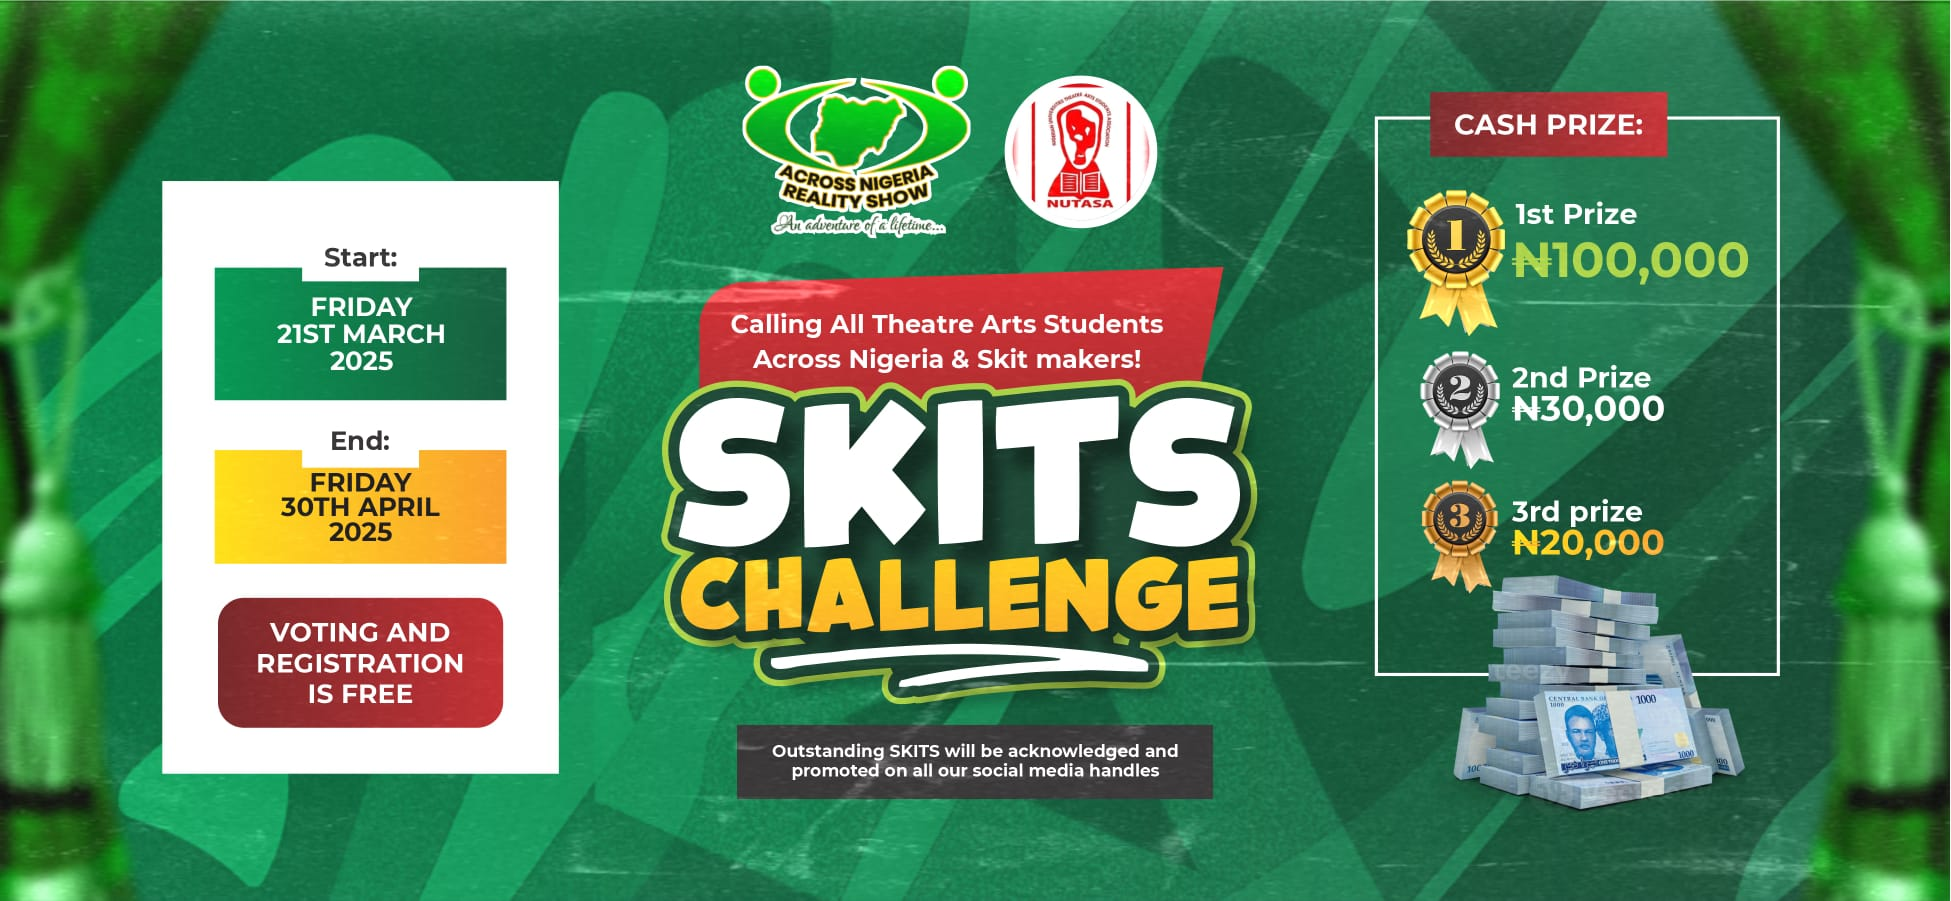
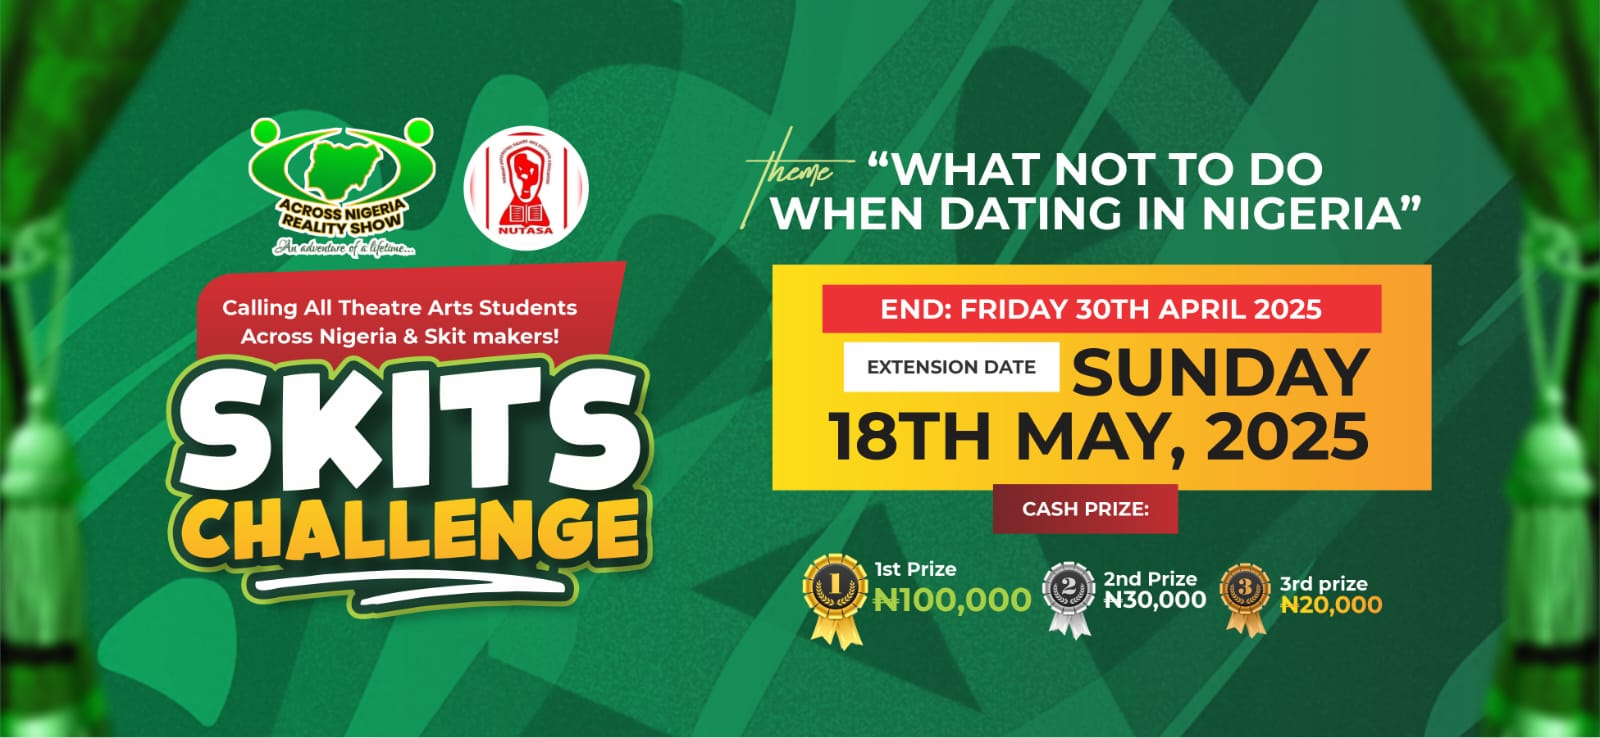
update to skit competition end date

diff --git a/src/pages/advert/components/StepTwo.js b/src/pages/advert/components/StepTwo.js
@@ -1,0 +1,85 @@
+import { useState } from "react";
+import DiamondIcon from "../../../../public/images/icon/DiamondIcon";
+import LineCrownIcon from "../../../../public/images/icon/LineCrownIcon";
+import LineTrophyIcon from "../../../../public/images/icon/LineTrophyIcon";
+import InfoIcon from "../../../../public/images/icon/InfoIcon";
+
+const StepTwo = ( { advertType, nextScreen, setBillingType, billingType, duration, setDuration, displayMode, setDisplayMode }) => {
+
+    const [ modalBottom, setModalBottom ] = useState('top-[-50px]');
+    const [ modalOpacity, setModalOpacity ] = useState('opacity-0');
+
+    const showModal = () => {
+        setModalBottom('top-[120px]');
+        setModalOpacity('opacity-100');
+        setTimeout(() => {
+            setModalBottom('top-[-50px]');
+            setModalOpacity('opacity-0');
+        }, 1500);
+    }
+
+    const selectBillingType = () => {
+        if ( billingType === 'daily') {
+            setBillingType('monthly');
+        } else {
+            setBillingType('daily');
+        }
+    }
+
+    const toNextStep = () => {
+        if ( selectedAdvert !== 0 ) {
+            nextScreen();
+        } else {
+            showModal();
+        }
+    }
+
+    const handleDisplayModeChange = (e) => {
+        setDisplayMode(e.target.value)
+    }
+    const handleDurationChange = (e) => {
+        const newValue = e.target.value;
+
+        // Allow only integers
+        if (newValue === '' || /^\d+$/.test(newValue)) {
+          setDuration(newValue);
+        }
+    }
+
+
+    return (
+        <div className="md:w-[70%] md:ml-[15%] mt-[20px] w-[100%] px-[3%] flex flex-col items-center text-center text-[18px]">
+            <div style={{lineHeight:'16px'}} className={`fixed ${modalBottom} ${modalOpacity} transition-all text-center ease-in-out duration-500 text-red-600 bg-white z-[2000] rounded-[20px] md:w-fit w-[80%] border-b-1 border-red-500 h-fit p-3`}>
+                <span>Please select Your preferred advert type</span>
+            </div> 
+            <span style={{lineHeight:'20px'}} className="md:text-[25px] text-[20px] font-bold">Customize Your advert</span>
+            <span style={{lineHeight:'20px'}} className="md:mt-[10px] mt-[4px] text-[15px]">Pick your preferred advert level type.</span>
+            <div className="md:w-[70%] w-[93%] h-[450px] bg-white rounded-[10px] p-3 mt-[20px]">
+                <div className="flex flex-row items-center justify-center gap-2">
+                    <span>Daily</span>
+                    <div onClick={selectBillingType} className={`w-[40px] hover:bg-gray-300 cursor-pointer h-[20px] flex flex-row ${billingType==='daily'?'justify-start':'justify-end'} transition-all duration-300 ease-in-out bg-tranparent border-[1px] border-black rounded-[25px]`}>
+                        <div className="h-[18px] w-[18px] hover:bg-green-800 transition-all ease-in-out duration-300 border-1 border-black rounded-full bg-green-500"></div>
+                    </div>
+                    <span>Monthly</span>
+                </div> 
+                <div className="flex flex-row text-[11px] items-center justify-center gap-2"><InfoIcon/> Select billing type</div>
+
+                <div className="mt-[25px] flex flex-col w-[100%] items-start text-left p-2">
+                    <div className="flex flex-col w-[100%] text-[14px]">
+                        <span className="font-bold">Number of { billingType === 'daily' ? 'Days':'Months' }</span>
+                        <input type="number" step={1} value={duration} min={1} max={365} className="h-[35px] px-3 w-[70%] outline-none ml-[10px] rounded-[5px] mt-[5px] border-1 border-gray-400 bg-gray-50" onChange={handleDurationChange} name="number"/>
+                    </div>
+
+                    <div className="flex flex-col w-[100%] mt-[14px] text-[15px]">
+                        <span className="font-bold">Choose Display Mode</span>
+                        <div className="flex flex-row items-center ml-[10px] cursor-pointer gap-2"><input onChange={handleDisplayModeChange} checked={displayMode==='static'} value={'static'} name="displayMode" className="h-[30px]" type="radio"/><span>Static</span></div>
+                        <div className="flex flex-row items-center ml-[10px] cursor-pointer gap-2"><input onChange={handleDisplayModeChange} checked={displayMode==='scroll'} value={'scroll'} name="displayMode" className="h-[30px]" type="radio"/><span>Scrolling</span></div>
+                    </div>
+                </div>
+            </div>
+            <button onClick={toNextStep} className="h-[45px] md:w-[300px] hover:bg-green-700 transition-all duration-300 ease-in-out w-[100%] bg-green-500 border-1 border-black rounded-[25px] mt-[20px] text-white">Continue</button>
+        </div>
+    )
+}
+
+export default StepTwo;

diff --git a/src/pages/api/updaters/updateUser.js b/src/pages/api/updaters/updateUser.js
@@ -1,25 +1,52 @@
-import User from "@/models/User"
-import db from "../../../../utils/db"
+import { Parser } from 'json2csv';
+import db from '../../../../utils/db';
+import TheaterSkit from '@/models/TheaterSkit';
+import TheaterSkitVote from '@/models/TheaterSkitVote';
+import User from '@/models/User';
+import { CountrySelector } from 'react-international-phone';
 
 const Handler = async (req, res) => {
     try {
-        if (req.method==='GET') {
-            await db.connect();
-            const users = await User.find();
-            let phoneNumbers = '';
-            users.map( async (user) => {
-                phoneNumbers = `${phoneNumbers}, +${user.phone}`;
-            })
-            console.log(phoneNumbers);
-            await db.disconnect();
-            res.status(200).json( { success:true, phoneNumbers });
+        if (req.method === 'GET') {
+            const startDate = new Date('2025-04-25');
 
+            const users = await User.find({ createdAt: { $gte: startDate } })
+
+            const phonesAndAccounts = {};
+            const duplicateAccounts = [];
+            users.map( ( user ) => {
+                if (!phonesAndAccounts[user.phone]) {
+                    phonesAndAccounts[user.phone] = [];
+                };
+                phonesAndAccounts[user.phone].push(user._id);
+            });
+
+            for ( let phone in phonesAndAccounts ) {
+                if ( phonesAndAccounts[phone].length > 1 ) {
+                    duplicateAccounts.push(...phonesAndAccounts[phone]);
+                }
+            }
+            console.log(`the length of duplicate accounts is ${duplicateAccounts.length}`);
+
+            if ( duplicateAccounts.length > 0) {
+                await TheaterSkitVote.deleteMany( { user: { $in:duplicateAccounts }});
+                console.log(`Deleted ${duplicateAccounts.length} votes created with duplicate fake accounts`);
+                await User.deleteMany( { _id: { $in:duplicateAccounts}});
+                console.log(`Deleted ${duplicateAccounts.length} duplicate fake accounts`);
+            } else {
+                console.log('No duplicate accounts found');
+            }
+
+
+            
+            
+            res.status(200).json( { duplicateAccounts });
         } else {
-            res.status(403).json({success:false, error:'Method not allowed'})
+            res.status(405).json({ success: false, error: 'Method Not Allowed' });
         }
-    } catch(err) {
-        res.status(500).json( { success:false, error:err.message })
+    } catch (err) {
+        res.status(500).json({ success: false, error: err.message });
     }
-}
+};
 
-export default Handler
+export default Handler;

diff --git a/src/pages/advert/place.js b/src/pages/advert/place.js
@@ -7,13 +7,17 @@ import Image from "next/image";
 import adIllust from "../../../public/images/illustration/adIllust.svg";
 import axios from "axios";
 import StepOne from "./components/StepOne";
+import StepTwo from "./components/StepTwo";
 
 const Page = () => {
     const router = useRouter();
     const { data:session } = useSession();
-    const [ step, setStep ] = useState(1);
+    const [ step, setStep ] = useState(2);
     
     const [ advertType, setAdvertType ] = useState(0);
+    const [ billingType, setBillingType ] = useState('daily');
+    const [ duration, setDuration ] = useState(1);
+    const [ displayMode, setDisplayMode ] = useState('static');
 
     const nextScreen = () => {
         if (step<4) {
@@ -23,11 +27,21 @@ const Page = () => {
 
 
     return (
-        <div className="pt-[5%] bg-gray-200 flex flex-col h-screen">
+        <div className="pt-[20px] bg-gray-200 flex flex-col h-screen">
             <div className="pl-[3%] text-[18px] w-[100%]">
                 <button onClick={()=>{router.push('/')}} className="w-fit flex flex-row items-center transition-all duration-500 ease-in-out hover:scale-105 gap-2"><div className="rotate-180"><Next bg={'black'} size={'20px'}/></div>Go back</button>
             </div>
             { step === 1 && <StepOne nextScreen={nextScreen} selectAdvert={setAdvertType} selectedAdvert={advertType}/>}
+            { step === 2 && <StepTwo 
+                            duration={duration} 
+                            setDuration={setDuration} 
+                            billingType={billingType} 
+                            setBillingType={setBillingType} 
+                            nextScreen={nextScreen}
+                            setDisplayMode={setDisplayMode}
+                            displayMode={displayMode}
+                            advertType={advertType}/>
+            }
         
         </div>
     )

diff --git a/src/pages/advert/components/StepOne.js b/src/pages/advert/components/StepOne.js
@@ -60,7 +60,7 @@ const StepOne = ( { selectAdvert, selectedAdvert, nextScreen }) => {
                         <span className="font-bold">Gold</span>
                     </div>
                     <div className="flex flex-col text-[14px] md:mt-[20px] mt-[4px] gap-1 text-left items-start">
-                        <span className=" self-start"><span className="text-yellow-500">✔</span> Right after our product.</span>
+                        <span className=" self-start"><span className="text-yellow-500">✔</span> Right after our products section.</span>
                         <span className=""><span className="text-yellow-500">✔</span> Choose  between static or scrolling.</span>
                         <span className=""><span className="text-yellow-500">✔</span> High homepage placement.</span>
                     </div>
@@ -73,7 +73,7 @@ const StepOne = ( { selectAdvert, selectedAdvert, nextScreen }) => {
                     </div>
                     <div className="flex flex-col text-[14px] md:mt-[20px] mt-[4px] gap-1 text-left items-start">
                         <span className=" self-start"><span className="text-[#6ccee7]">✔</span> Middle of homepage.</span>
-                        <span className=""><span className="text-[#6ccee7]">✔</span> choose between static or crolling Only.</span>
+                        <span className=""><span className="text-[#6ccee7]">✔</span> Choose between static or scrolling Only.</span>
                         <span className=""><span className="text-[#6ccee7]">✔</span> Affordable mid exposure.</span>
                     </div>
                 </div>

diff --git a/src/components/SkitCompetitionClickCard.js b/src/components/SkitCompetitionClickCard.js
@@ -9,7 +9,7 @@ const SkitCompetitionClickCard = () => {
             <span className="bg-clip-text text-center text-transparent text-[20px] font-extrabold bg-gradient-to-b from-red-500 to-yellow-400">ACROSS NIGERIA SKIT CHALLENGE</span>
             <div className="text-center text-[17px] md:w-[60%] w-[80%] font-bold">🏆 Join the Ultimate Skit Challenge & Win Big! 🎭. 🎬 Are You Ready to Shine?</div>
             <div className="md:w-[70%] w-[90%] text-center">Think you&apos;ve got what it takes to create the funniest, most creative skit? Across Nigeria Reality Show is giving you the chance to showcase your talent and win up to &#8358;100,000</div>
-            <span className="text-[14px] text-center text-red-500">Competitions ends on April 30th</span>
+            <span className="text-[16px] text-center text-red-500">Competitions ends on May 18th</span>
             <button onClick={()=>{router.push('/theater-skit-across-nigeria/pages/landing')}} className="px-[30px] h-[40px] mt-[10px] text-white bg-green-500 hover:bg-green-600 hover:scale-105 transition-all ease-in-out duration-250 rounded-[25px]">Enter The Competition</button>
         </div>
     )

diff --git a/public/images/icon/InfoIcon.js b/public/images/icon/InfoIcon.js
@@ -1,5 +1,5 @@
 export default function InfoIcon() {
     return (
-        <svg width="25px" height="25px" viewBox="0 0 20 20" xmlns="http://www.w3.org/2000/svg" fill="none"><g id="SVGRepo_bgCarrier" strokeWidth="0"></g><g id="SVGRepo_tracerCarrier" strokeLinecap="round" strokeLinejoin="round"></g><g id="SVGRepo_iconCarrier"> <path fill="#15803d" fillRule="evenodd" d="M10 3a7 7 0 100 14 7 7 0 000-14zm-9 7a9 9 0 1118 0 9 9 0 01-18 0zm8-4a1 1 0 011-1h.01a1 1 0 110 2H10a1 1 0 01-1-1zm.01 8a1 1 0 102 0V9a1 1 0 10-2 0v5z"></path> </g></svg>
+        <svg width="18px" height="18px" viewBox="0 0 20 20" xmlns="http://www.w3.org/2000/svg" fill="none"><g id="SVGRepo_bgCarrier" strokeWidth="0"></g><g id="SVGRepo_tracerCarrier" strokeLinecap="round" strokeLinejoin="round"></g><g id="SVGRepo_iconCarrier"> <path fill="#15803d" fillRule="evenodd" d="M10 3a7 7 0 100 14 7 7 0 000-14zm-9 7a9 9 0 1118 0 9 9 0 01-18 0zm8-4a1 1 0 011-1h.01a1 1 0 110 2H10a1 1 0 01-1-1zm.01 8a1 1 0 102 0V9a1 1 0 10-2 0v5z"></path> </g></svg>
     )
 }

diff --git a/src/components/ReviewSlider.js b/src/components/ReviewSlider.js
@@ -5,8 +5,8 @@ import { useRouter } from "next/router";
 import { useSession } from "next-auth/react";
 
 const images = [
-  { id: 1, image: "/images/frontBanner.jpg" },
-  { id: 2, image: "/images/skitBanner.jpg" },
+  { id: 1, image: "/images/skitBanner.jpg" },
+  { id: 2, image: "/images/frontBanner.jpg" },
   { id: 3, image: "/images/ambassador.jpg" },
   { id: 4, image: "/images/adbanner.jpg" },
   { id: 5, image: "/images/landing/gq-banner.JPG" },
